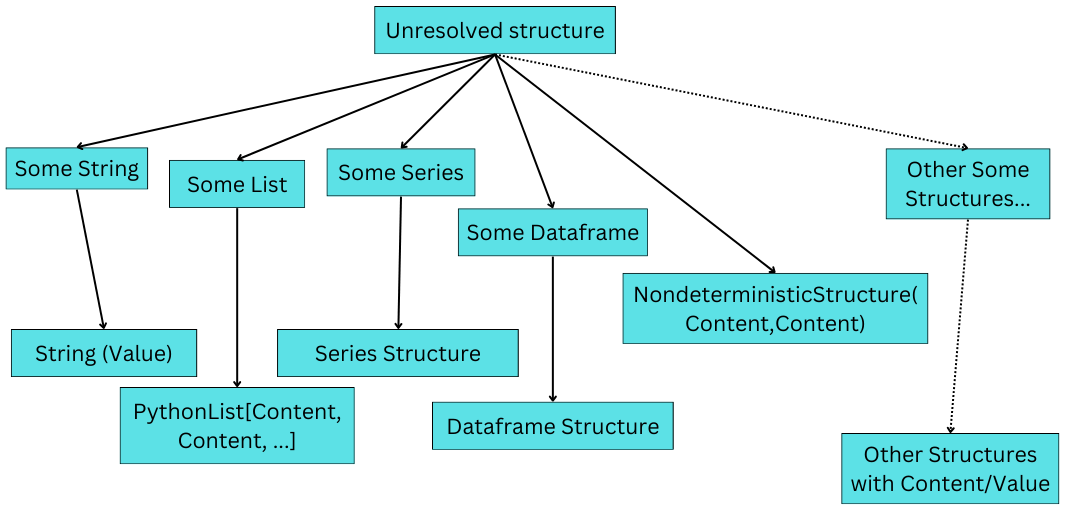
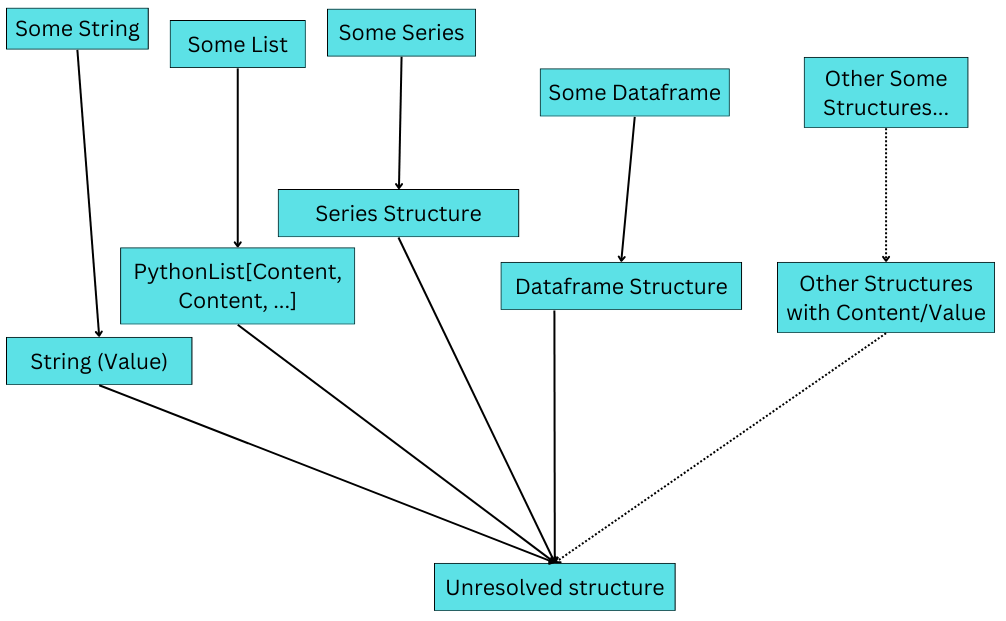
chap03 fix + images

diff --git a/chap03.tex b/chap03.tex
@@ -200,6 +200,7 @@ structure called Unresolved Structure.
 And if we are not able to resolve the items of the list at all (not even their count), then we remember just the
 information that variable is a list (and we do not constraint the content of the list in any other way).
 
+
 \section{Final proposal}
 
 The only task that is left for us to finish the analysis framework is to combine the Dataframe and Series framework
@@ -208,11 +209,9 @@ with the general abstraction proposed for other types (ints, strings, lists, \ld
 We design a hierarchy of abstract types.
 The higher levels of the hierarchy contain less precise (more abstract) types and the preciseness increases as we go
 down the hierarchy.
-There is the Unresolved Structure at the top of the hierarchy representing some value that we know nothing about (only
-that it exists).
-In the next level of the hierarchy we enrich the unknown value with type, meaning that we remember that the value
-is a string (int, list, Dataframe, \ldots) but we do not know anything else.
-The last level represents different type of knowledge for different types, specifically:
+There is the Unresolved Structure at the bottom of the hierarchy representing a value that we were not able to derive.
+This is usually a result of an invalid operation or a generally an invalid state.
+When we go up the hierarchy, the next level represents different type of knowledge for different types, specifically:
 
 \begin{itemize}
     \item For elementary types (string, int, float) it is a complete knowledge of the value.
@@ -221,7 +220,9 @@ The last level represents different type of knowledge for different types, speci
     of abstraction from the hierarchy
 \end{itemize}
 
-The Figure~\ref{fig:abstract_hierarchy} shows the idea.
+When we go even one level higher, we abstract the concrete value to its type, meaning that we remember that the value
+is a string (int, list, Dataframe, \ldots) but we do not know anything else about it.
+The idea is shown in the Figure~\ref{fig:abstract_hierarchy}.
 The Value means a specific value such as string literal or a number.
 The Content represents an abstract type in the hierarchy.
 
@@ -232,16 +233,40 @@ The Content represents an abstract type in the hierarchy.
     \includegraphics[scale=0.5]{img/Hierarchy}
 \end{figure}
 
-\xxx{TODO this is actually just a semi-lattice? but we do not need the opposite bound}
-There is another type called Nondeterministic Structure.
-It is a structure holding two sub-structures, representing two options of how the structure could look.
-This is useful for example when we know that the structure can be either a Some Series or a Some List.
-In that case we would normally need to use the supremum - Unresolved Structure, but now we can just use
-\verb|NondeterministicStructure(Some Series, Some List)|.
-Other case when this can be useful is when we have two (or more by nesting many Nondeterministic Structures)
-possibilities what a Dataframe Structure could look like.
-This will mostly happen when there is a branching (if-statement) in the program, and we are not able to resolve
-which branch we should go.
+To satisfy the definition of a Lattice, every pair of elements must have a supremum and infimum.
+It can be seen from the Figure~\ref{fig:abstract_hierarchy} that the infimum exists.
+For two different values of the same type \verb|String("first")| and \verb|String("second")|, the infimum is
+\verb|SomeString|.
+For the two different types \verb|String("str")| and \verb(Int(7))|, the infimum is \verb|UnresolvedStructure|.
+The other cases are analogous and are left as an exercise for the reader.
+
+However, the idea misses suprema.
+For that purpose we define another structure called \verb|NondeterministicStructure|.
+The supremum of two elements of the hierarchy \verb|a| and \verb|b| is \verb|NondeterministicStructure(a, b)|.
+The idea is also applicable recursively, so the value \\
+\begin{verbatim}
+NondeterministicStructure(
+    NondeterministiStructure(
+        SomeString,
+        SomeInt
+    ),
+    SomeSeries
+)
+\end{verbatim}
+is a valid element of the hierarchy.
+The idea is shown in the Figure~\ref{fig:nondeterministic_structure}
+With this idea, the hierarchy is finally a Lattice.
+Note that it is not a Complete Lattice as the whole hierarchy does not have a supremum.
+
+\begin{figure}[H]
+    \caption{Nondeterministic structure}
+    \label{fig:nondeterministic_structure}
+    \centering
+    \includegraphics[scale=0.5]{img/unresolved_structure}
+\end{figure}
+
+The Nondeterministic Structure will mostly occur when there is a branching (e.g.~an if-statement) in the program, and we are not
+able to resolve which branch we should go.
 So the Nondeterministic Structure is a substitute that we need to use since we do not use the power set as the abstract
 lattice anymore.
 
@@ -261,9 +286,8 @@ But, again, we do not know the index values.
 In such situation there is no other option then just returning Some Dataframe.
 
 Another possible problem can be an unknown value propagation, meaning that when there is a value with any uncertainty
-(e.g.\ Unresolved Structure or Some value), using this value in an operation will in most cases lead to an operation
-result with an uncertainty as well.
-
+(e.g.\ Nondeterministic Structure or Some value), using this value in an operation will in most cases lead to an
+operation result with an uncertainty as well.
 
 \section*{Summary}
 \addcontentsline{toc}{section}{Summary}
